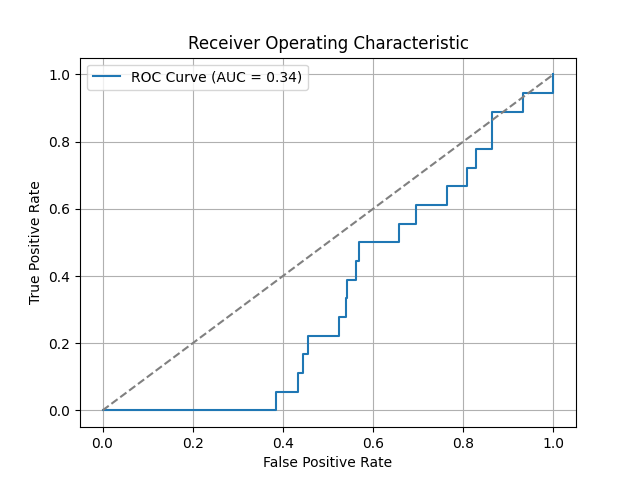
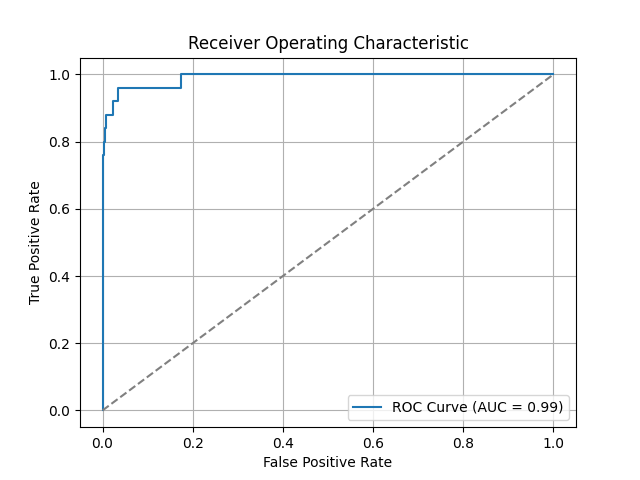
fixing model

diff --git a/GWANN.py b/GWANN.py
@@ -54,7 +54,6 @@ class CLIManager:
     @click.option('--cpu/;','cpu',default=False,required=False,help="force on cpu")
     @click.option('--transform', '--f', 'func', default="", type=str, help="The name of the function to modify the output (tanh_map, logit_map, log_map)")
     @click.option('--threshold', '--th', 'th', default=50, type=int, help="Causal classification if  >= threshold (% Prediction)")
-    @click.option('--geneModel', '--GM', 'gm', default="recessive", type=str, help="Choose one of the four models, where a value of 0.5 is interpreted as follows: recessive = 0, dominant = 1, additive = 0.5, noHet = -1")  
     def run(
         vcf: str,
         pheno_path:str,
@@ -64,7 +63,6 @@ class CLIManager:
         cpu:bool,
         func:str,
         th:int,
-        gm:str
         )-> None:
         """Run GWANN analysis.
 
@@ -89,8 +87,8 @@ class CLIManager:
         json_update("current_command", 'run')
         LOGGER_FILE = "run"
         os.environ['LOGGER'] = f'{LOGGER_DIR}/{LOGGER_FILE}_{datetime.datetime.now().strftime("%Y-%m-%d_%H-%M-%S")}.log'
-        Logger(f'Message:', f"{os.environ['LOGGER']}").debug(f"Running GWANN analysis with VCF: {vcf}, phenotype path: {pheno_path}, trait: {trait}, model: {modelPath}, output path: {output_path}, threshold: {th}, function: {func}, geneModel= {gm}")
-        Run(vcf, pheno_path, trait, modelPath, output_path, cpu, func, th,gm).start()
+        Logger(f'Message:', f"{os.environ['LOGGER']}").debug(f"Running GWANN analysis with VCF: {vcf}, phenotype path: {pheno_path}, trait: {trait}, model: {modelPath}, output path: {output_path}, threshold: {th}, function: {func}")
+        Run(vcf, pheno_path, trait, modelPath, output_path, cpu, func, th).start()
         log_resource_usage(start_time,Logger(f'Message:', f"{os.environ['LOGGER']}"),"Run")
         pass
 

diff --git a/run3.py b/run3.py
@@ -36,7 +36,7 @@ def log_map(output):
 
 class Run:
     GeneModel = {'recessive':0,'dominant':1,'additive':0.5,'noHet':-1}
-    def __init__(self,vcf, pheno_path, trait,model, output_path, cpu, func, th, gm):
+    def __init__(self,vcf, pheno_path, trait,model, output_path, cpu, func, th):
         self.vcf = vcf
         self.pheno_path = pheno_path
         self.trait = trait
@@ -48,7 +48,6 @@ class Run:
         self.logger = Logger(f'Message:', f"{os.environ['LOGGER']}")
         self.func = func
         self.th = th
-        self.gm = gm
 
 
     def load_and_parse_data(self):

diff --git a/train13.py b/train13.py
@@ -83,7 +83,7 @@ class Train:
         modelBuilder = ModelBuilder(self.height, self.width)
         model = modelBuilder.model_summary()
         
-        model.compile(optimizer=SGD(learning_rate=0.0001), loss='categorical_crossentropy', metrics=['accuracy'])
+        model.compile(optimizer=Adam(learning_rate=0.0005), loss='categorical_crossentropy', metrics=['accuracy'])
 
      
         self.logger.info("Training model...")
